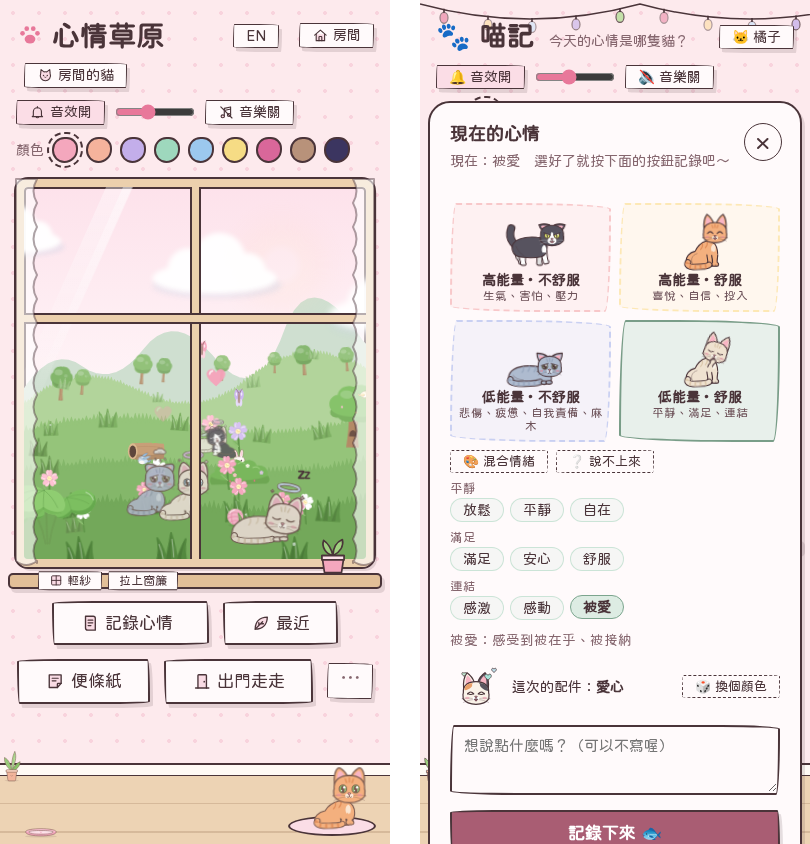
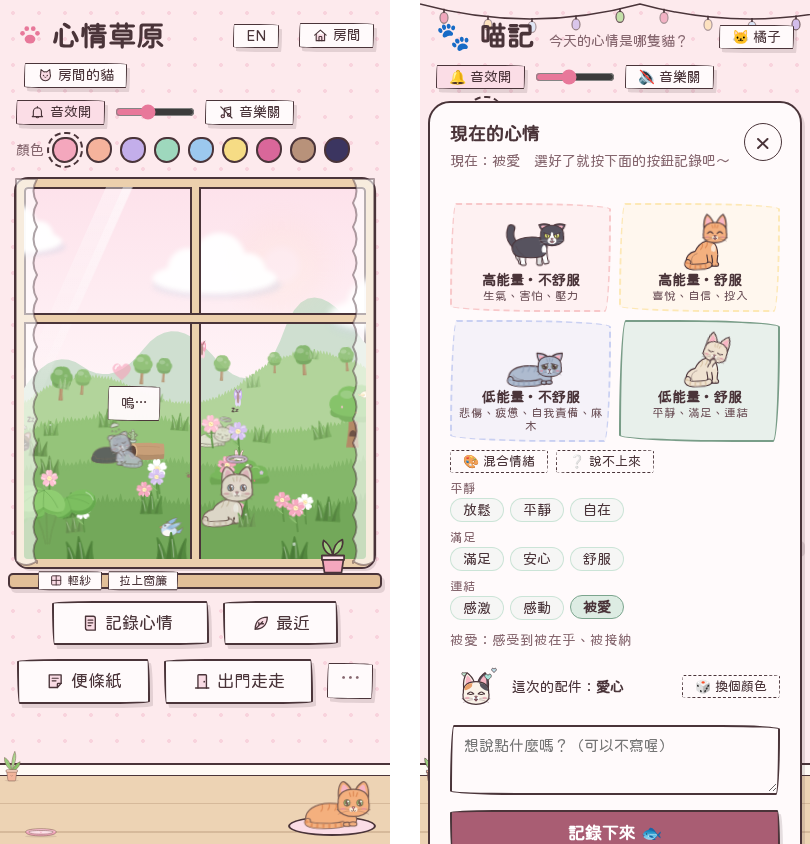
style: smaller eyes and plain accessories

Changed region(s): [[0.0926, 0.4313, 0.4012, 0.6469], [0.3704, 0.8934, 0.463, 0.9858], [0.2469, 0.4313, 0.2778, 0.4621]]

diff --git a/index.html b/index.html
@@ -1944,6 +1944,7 @@ const HEAD_POSE = {
 // 耳朵：難過會垂下、生氣會壓平（飛機耳）
 const EARS = { happy: [0, 0], calm: [0, 0], tired: [12, 1], sad: [36, 5], angry: [52, 7], anxious: [16, 1] };
 
+const EYE_K = .84;   // 眼睛的大小（表情小一點，比較柔和）
 function eye(cx, cy, mood, side, coat = mood) {
   const m = coatOf(coat);
   const iris = (pw, ph = 4.4) => `<ellipse cx="${cx}" cy="${cy}" rx="4.6" ry="5" fill="${m.eye}" stroke-width="1.4"/>
@@ -2003,8 +2004,10 @@ function headArt(mood, coat = mood, acc = null) {
     <path d="M95 29.5 L96.5 34 M100 28 L100 33.5 M105 29.5 L103.5 34" stroke="${m.stripe}" stroke-width="1.8" fill="none"/>
     ${m.muzzle ? `<path d="M100 36 C95 42 92 48 93 53 C96 57.5 104 57.5 107 53 C108 48 105 42 100 36Z" fill="#fff" stroke="none"/>` : ""}
     ${mood !== "angry" ? `<ellipse cx="87" cy="49.5" rx="3.3" ry="1.8" fill="#FF9DB5" opacity=".55" stroke="none"/><ellipse cx="113" cy="49.5" rx="3.3" ry="1.8" fill="#FF9DB5" opacity=".55" stroke="none"/>` : ""}
-    <g class="eyes">${eye(92, 42, mood, -1, coat)}${eye(108, 42, mood, 1, coat)}</g>
-    <g class="closed"><path d="M87.5 42.5 Q92 45.8 96.5 42.5 M103.5 42.5 Q108 45.8 112.5 42.5" fill="none" stroke="${m.eyeLine || INK}" stroke-width="1.6"/></g>
+    <g class="eyes">${[[92, -1], [108, 1]].map(([x, side]) => `<g transform="translate(${x} 42) scale(${EYE_K}) translate(${-x} -42)">${eye(x, 42, mood, side, coat)}</g>`).join("")}</g>
+    <g class="closed"><path d="M88.2 42.4 Q92 45.2 95.8 42.4 M104.2 42.4 Q108 45.2 111.8 42.4" fill="none" stroke="${m.eyeLine || INK}" stroke-width="1.6"/></g>
+    ${mood === "sad" ? `<path d="M90.4 47.4 Q88.8 50.4 90.4 51.8 Q92 50.4 90.4 47.4Z" fill="#8EC1EE" stroke="none"/>` : ""}
+    ${mood === "anxious" ? `<path d="M120 30 Q122.6 34 120 35.8 Q117.4 34 120 30Z" fill="#8EC1EE" stroke-width=".8"/>` : ""}
     <circle cx="97.6" cy="50.4" r="2.9" fill="${m.chest}" stroke="none"/><circle cx="102.4" cy="50.4" r="2.9" fill="${m.chest}" stroke="none"/>
     <path d="M98.1 47.1 Q100 46.4 101.9 47.1 Q101.1 49.3 100 49.7 Q98.9 49.3 98.1 47.1Z" fill="#F29BAE" stroke-width="1"/>
     <path d="M100 49.7 L100 51.3" stroke-width="1"/>
@@ -2124,25 +2127,7 @@ const sparkle = (x, y, s, fill) => `<path d="M${x} ${y - 4 * s} Q${x + .8 * s} $
 const label = (x, y, t, size, fill) => `<text x="${x}" y="${y}" font-size="${size}" text-anchor="middle" font-weight="bold" fill="${fill}" stroke="#4a3439" stroke-width=".6" paint-order="stroke" font-family="Huninn, sans-serif">${t}</text>`;
 const cloudPath = (x, y, s) => `M${x - 8 * s} ${y + 3 * s} Q${x - 11 * s} ${y + 3 * s} ${x - 10 * s} ${y} Q${x - 10 * s} ${y - 4 * s} ${x - 5 * s} ${y - 3.4 * s} Q${x - 3 * s} ${y - 7 * s} ${x + 1 * s} ${y - 5.6 * s} Q${x + 5 * s} ${y - 7 * s} ${x + 6.4 * s} ${y - 3 * s} Q${x + 11 * s} ${y - 3 * s} ${x + 10 * s} ${y + 1 * s} Q${x + 10 * s} ${y + 3 * s} ${x + 7 * s} ${y + 3 * s}Z`;
 
-// 小臉：配件上的表情（smile 笑、sad 難過、angry 生氣、sleep 睡著、o 驚訝、flat 沒表情）
-const miniFace = (x, y, s = 1, k = "smile", blush = true) => {
-  const f = n => +n.toFixed(2);
-  let eyes;
-  if (k === "angry") eyes = `<path d="M${f(x - 3 * s)} ${f(y - 1.2 * s)} L${f(x - 1.4 * s)} ${f(y - .2 * s)} L${f(x - 3 * s)} ${f(y + .8 * s)} M${f(x + 3 * s)} ${f(y - 1.2 * s)} L${f(x + 1.4 * s)} ${f(y - .2 * s)} L${f(x + 3 * s)} ${f(y + .8 * s)}" fill="none" stroke-width="${f(.9 * s)}"/>`;
-  else if (k === "sleep") eyes = `<path d="M${f(x - 3.2 * s)} ${f(y - .4 * s)} Q${f(x - 2.2 * s)} ${f(y + .8 * s)} ${f(x - 1.2 * s)} ${f(y - .4 * s)} M${f(x + 1.2 * s)} ${f(y - .4 * s)} Q${f(x + 2.2 * s)} ${f(y + .8 * s)} ${f(x + 3.2 * s)} ${f(y - .4 * s)}" fill="none" stroke-width="${f(.8 * s)}"/>`;
-  else eyes = `<circle cx="${f(x - 2.2 * s)}" cy="${f(y)}" r="${f(.75 * s)}" fill="#4a3439" stroke="none"/><circle cx="${f(x + 2.2 * s)}" cy="${f(y)}" r="${f(.75 * s)}" fill="#4a3439" stroke="none"/>`;
-  const m = {
-    smile: `M${f(x - 1 * s)} ${f(y + 1.3 * s)} Q${f(x)} ${f(y + 2.3 * s)} ${f(x + 1 * s)} ${f(y + 1.3 * s)}`,
-    sleep: `M${f(x - .8 * s)} ${f(y + 1.6 * s)} Q${f(x)} ${f(y + 2.2 * s)} ${f(x + .8 * s)} ${f(y + 1.6 * s)}`,
-    sad: `M${f(x - 1 * s)} ${f(y + 2.1 * s)} Q${f(x)} ${f(y + 1.2 * s)} ${f(x + 1 * s)} ${f(y + 2.1 * s)}`,
-    angry: `M${f(x - 1 * s)} ${f(y + 2 * s)} Q${f(x)} ${f(y + 1.2 * s)} ${f(x + 1 * s)} ${f(y + 2 * s)}`,
-    flat: `M${f(x - .9 * s)} ${f(y + 1.6 * s)} H${f(x + .9 * s)}`,
-  }[k];
-  const mouth = k === "o" ? `<ellipse cx="${f(x)}" cy="${f(y + 1.8 * s)}" rx="${f(.6 * s)}" ry="${f(.8 * s)}" fill="#4a3439" stroke="none"/>`
-    : `<path d="${m}" fill="none" stroke-width="${f(.75 * s)}"/>`;
-  const b = blush ? `<ellipse cx="${f(x - 3.6 * s)}" cy="${f(y + 1.2 * s)}" rx="${f(1.1 * s)}" ry="${f(.7 * s)}" fill="#ff9db5" opacity=".75" stroke="none"/><ellipse cx="${f(x + 3.6 * s)}" cy="${f(y + 1.2 * s)}" rx="${f(1.1 * s)}" ry="${f(.7 * s)}" fill="#ff9db5" opacity=".75" stroke="none"/>` : "";
-  return `<g stroke="#4a3439" stroke-linecap="round">${eyes}${mouth}${b}</g>`;
-};
+// 配件只是單純的配件，上面不畫表情（表情只在貓的臉上）
 // 白色反光
 const shine = (d, w = 1.2) => `<path d="${d}" fill="none" stroke="#fff" stroke-width="${w}" stroke-linecap="round" opacity=".9"/>`;
 // 胖胖的符號（? ! ♪），外框粗一點
@@ -2154,7 +2139,7 @@ const ACC = {
   // 生氣
   // 煩躁：耳朵旁冒出一朵氣噗噗的小煙
   irritated: h => `<g ${AK()}><path d="${cloudPath(128.6, 1.6, .38)}" fill="${hsl(h, 60, 92)}"/><path d="${cloudPath(120, 14, .9)}" fill="${hsl(h, 60, 92)}"/></g>
-    ${miniFace(120.6, 12.4, 1, "angry")}${shine("M112.4 11.6 Q113.4 9.2 116 8.8")}`,
+    ${shine("M112.4 11.6 Q113.4 9.2 116 8.8")}`,
   // 挫折：打結的毛線球
   frustrated: h => `<g ${AK()}><path d="M106 20 Q115 19 113 26 Q111 31 117 32 Q122 33 121 28 Q120 24 116 26" fill="none" stroke="${hsl(h, 55, 52)}" stroke-width="1.5"/>
     <circle cx="100" cy="17" r="7.4" fill="${hsl(h, 70, 74)}"/>
@@ -2165,7 +2150,7 @@ const ACC = {
     <path d="M118 28 V15 Q118 9.6 122 9.6 Q126 9.6 126 15 V28Z" fill="#9dd47f"/>
     <path d="M118 19 Q114 19 114 15 Q114 12.4 116 12.4 Q117.6 12.4 118 15 M126 22 Q130 22 130 18 Q130 15.4 128 15.4 Q126.4 15.4 126 18" fill="#9dd47f"/></g>
     <path d="M120 14 l-1.4 -1 M124 17 l1.4 -1 M120.6 22 l-1.4 1 M123.6 25 l1.4 1 M113.6 16 l-1.4 -.6 M130.4 19 l1.4 -.6" fill="none" stroke="#4a3439" stroke-width=".9" stroke-linecap="round"/>
-    <circle cx="122" cy="8.6" r="2" fill="${hsl(h, 80, 80)}" ${AK(.8)}/>${miniFace(122, 20.6, .5, "angry", false)}`,
+    <circle cx="122" cy="8.6" r="2" fill="${hsl(h, 80, 80)}" ${AK(.8)}/>`,
   // 嫉妒：想要的小魚乾
   jealous: h => `<g ${AK()}><circle cx="112.6" cy="23" r="1.4" fill="#fff"/><circle cx="116.6" cy="17" r="2.2" fill="#fff"/>
     <ellipse cx="126" cy="7.4" rx="10" ry="7.6" fill="#fff"/>
@@ -2174,7 +2159,7 @@ const ACC = {
   // 憤怒：生氣的小火焰
   furious: h => `<g ${AK()}><path d="M100 1 C104 8 109 9 108 15 C111 13 112 10 112 9 C117 15 113 25 106 25 H94 C87 25 83 15 88 9 C88 10 89 13 92 15 C91 9 96 8 100 1Z" fill="${hsl(h, 85, 66)}"/>
     <path d="M100 11 C104 14 107 17 105.4 21.6 C104 24 96 24 94.6 21.6 C93 17 96 14 100 11Z" fill="${hsl(h + 30, 95, 86)}" stroke="none"/></g>
-    ${miniFace(100, 18.6, .8, "angry", false)}${shine("M90 13 Q90 10.6 91.6 9.6")}`,
+    ${shine("M90 13 Q90 10.6 91.6 9.6")}`,
   // 害怕
   // 緊張：繃緊的彈簧
   nervous: h => { const d = "M121 30 C114 29 114 26 121 25 C128 24 128 21 121 20 C114 19 114 16 121 15 C128 14 128 11 121 10";
@@ -2182,10 +2167,9 @@ const ACC = {
     <circle cx="121" cy="8" r="2.8" fill="${hsl(h + 40, 75, 80)}" ${AK(1.1)}/>${shine("M119.8 7 Q120.4 6 121.4 6", .8)}`; },
   // 擔心：胖胖的問號
   worried: h => `${puffy(119, 21, "?", 15, hsl(h, 75, 74))}${puffy(128.6, 11, "?", 10, hsl(h + 40, 75, 82))}`,
-  // 焦慮：轉圈圈眼睛的小雲
+  // 焦慮：一朵亂亂的小雲
   anxious: h => `<g ${AK()}><path d="${cloudPath(100, 9, .82)}" fill="${hsl(h, 45, 90)}"/>
-    <path d="M96.6 7.6 m-1.6 0 a1.6 1.6 0 1 1 1.6 1.6 a.8 .8 0 0 1 -.8 -.8 M104.6 7.6 m-1.6 0 a1.6 1.6 0 1 1 1.6 1.6 a.8 .8 0 0 1 -.8 -.8" fill="none" stroke-width=".9"/>
-    <path d="M97.6 11.8 q1.2 -1 2.4 0 t2.4 0" fill="none" stroke-width=".9"/></g>${shine("M92.4 6.4 Q93.2 4.4 95.4 4.2")}`,
+    <path d="M93 8 q3 -3 6 0 t6 0 M95 11 q2.6 -2.4 5.2 0 t5.2 0" fill="none" stroke-width=".9"/></g>${shine("M92.4 6.4 Q93.2 4.4 95.4 4.2")}`,
   // 害怕：驚嘆號
   scared: h => `${puffy(119, 21, "!", 17, hsl(h, 85, 72))}`,
   // 恐慌：好幾個驚嘆號
@@ -2196,7 +2180,7 @@ const ACC = {
     <circle cx="93.6" cy="10.4" r="3.2" fill="${hsl(h, 60, 62)}"/><circle cx="106.4" cy="10.4" r="3.2" fill="${hsl(h, 60, 62)}"/>
     <circle cx="100" cy="17" r="8" fill="${hsl(h, 70, 76)}"/><circle cx="100" cy="17.4" r="5.8" fill="#fffaf5" stroke-width="1"/>
     <path d="M89 12 L87 10.6 M111 12 L113 10.6" fill="none" stroke-width="1"/></g>
-    ${miniFace(100, 17, .78, "o")}`,
+    `,
   // 坐立不安：小閃電
   restless: h => `<g ${AK()}><path d="M121 6.6 L115.6 16.4 H120.4 L116.6 27 L126.6 13.6 H121.6 L125.6 6.6Z" fill="${hsl(h, 90, 76)}"/>
     <path d="M79 25 q-3 2 0 4 q3 2 0 4 M75 27 q-3 2 0 4 q3 2 0 4" fill="none" stroke-width="1.1"/></g>${shine("M121.6 8.4 L119.4 12.6", 1)}`,
@@ -2204,12 +2188,12 @@ const ACC = {
   overwhelmed: h => `<g ${AK()}><rect x="88" y="17" width="24" height="5.4" rx="2" fill="${hsl(h, 60, 82)}" transform="rotate(-6 100 19)"/>
     <rect x="89" y="11.6" width="22" height="5.4" rx="2" fill="${hsl(h + 40, 60, 84)}" transform="rotate(5 100 14)"/>
     <rect x="90" y="5" width="20" height="7" rx="2" fill="#fffaf5" transform="rotate(-4 100 8.4)"/></g>
-    ${miniFace(100, 8, .6, "o", false)}`,
+    `,
   // 喜悅
   // 開心：耳朵邊一朵笑咪咪的小花
   happy: h => `<g ${AK()}><path d="M91 30 Q94 34 97.6 32 Q94.6 28.4 91 30Z" fill="#9fd07f"/>
     ${[0, 72, 144, 216, 288].map(a => `<circle cx="${(87 + 4.4 * Math.cos((a - 90) * Math.PI / 180)).toFixed(1)}" cy="${(23 + 4.4 * Math.sin((a - 90) * Math.PI / 180)).toFixed(1)}" r="3.6" fill="${hsl(h, 80, 80)}"/>`).join("")}
-    <circle cx="87" cy="23" r="3" fill="#ffe08a"/></g>${miniFace(87, 22.6, .5, "smile", false)}`,
+    <circle cx="87" cy="23" r="3" fill="#ffe08a"/></g>`,
   // 好笑：胖胖的音符
   amused: h => `<g ${AK()}><path d="M117 22 V10 L124 8 V19" fill="none" stroke-width="1.4"/>
     <ellipse cx="115.4" cy="22" rx="2.6" ry="2" fill="${hsl(h, 75, 74)}" transform="rotate(-20 115.4 22)"/><ellipse cx="122.4" cy="19.4" rx="2.6" ry="2" fill="${hsl(h, 75, 74)}" transform="rotate(-20 122.4 19.4)"/>
@@ -2248,11 +2232,11 @@ const ACC = {
   // 悲傷
   // 難過：一朵哭哭的小雨雲
   sad: h => `<g ${AK()}><path d="${cloudPath(100, 6, .8)}" fill="${hsl(h, 25, 86)}"/>${drop(94, 16.4, .85, hsl(h, 75, 78))}${drop(100.6, 18.4, .85, hsl(h, 75, 78))}${drop(107, 16, .85, hsl(h, 75, 78))}</g>
-    ${miniFace(100, 5.4, .72, "sad")}`,
+    `,
   // 失望：垂頭喪氣的小花
   disappointed: h => `<g ${AK()}><path d="M100 25 Q101 14 108 13 Q113.6 13 113.4 18" fill="none" stroke="#6fa655" stroke-width="1.6"/>
     <path d="M103.4 15.8 Q99 13 98 17 Q101 18.6 103.4 15.8Z" fill="#b6c99a"/>
-    <circle cx="113.4" cy="22" r="4.6" fill="${hsl(h, 50, 78)}"/></g>${miniFace(113.4, 22, .62, "sad", false)}`,
+    <circle cx="113.4" cy="22" r="4.6" fill="${hsl(h, 50, 78)}"/></g>`,
   // 委屈：貼著愛心的 OK 繃
   wronged: h => `<g ${AK()}><g transform="rotate(-30 113 48)"><rect x="104.6" y="45" width="17" height="6.2" rx="3.1" fill="${hsl(h, 60, 87)}"/><rect x="110.4" y="45" width="5.4" height="6.2" rx="1" fill="${hsl(h, 55, 78)}" stroke-width="1"/>
     <circle cx="107.4" cy="47" r=".5" fill="${hsl(h, 50, 68)}" stroke="none"/><circle cx="107.4" cy="49.2" r=".5" fill="${hsl(h, 50, 68)}" stroke="none"/><circle cx="118.8" cy="47" r=".5" fill="${hsl(h, 50, 68)}" stroke="none"/><circle cx="118.8" cy="49.2" r=".5" fill="${hsl(h, 50, 68)}" stroke="none"/></g>
@@ -2260,7 +2244,7 @@ const ACC = {
   // 孤單：一顆小氣球
   lonely: h => `<g ${AK()}><path d="M117 52 Q124 40 122.6 27" fill="none" stroke-width="1"/>
     <ellipse cx="124" cy="17" rx="7" ry="8.4" fill="${hsl(h, 75, 78)}"/><path d="M122.4 25.2 L125.6 25.2 L124 27.4Z" fill="${hsl(h, 75, 78)}" stroke-width="1"/></g>
-    ${shine("M119.8 13.4 Q120.8 10.4 123.4 10")}${miniFace(124, 18, .6, "flat")}`,
+    ${shine("M119.8 13.4 Q120.8 10.4 123.4 10")}`,
   // 失落：飄走的落葉
   lost: h => `<g ${AK()}><path d="M115 5 C121 1.4 128 5.4 126 13 C119.6 15.2 113.4 11 115 5Z" fill="${hsl(h, 70, 72)}"/>
     <path d="M116.4 6 L124.6 12.2 M119 8 L120.4 5.4 M121.4 9.8 L123.6 7.8" fill="none" stroke-width="1"/>
@@ -2273,16 +2257,16 @@ const ACC = {
     <circle cx="128.6" cy="31" r="3.4" fill="#fffaf5"/></g>${shine("M88 20 Q90 14 95 11.4")}`,
   // 提不起勁：快沒電的電池
   unmotivated: h => `<g ${AK()}><rect x="90" y="5" width="20" height="12" rx="3" fill="#fffaf5"/><rect x="110" y="8.6" width="2.6" height="4.8" rx="1" fill="#4a3439"/>
-    <rect x="92.2" y="7.2" width="3.6" height="7.6" rx="1" fill="${hsl(h, 80, 66)}" stroke="none"/></g>${miniFace(102.6, 10.6, .62, "sleep", false)}`,
+    <rect x="92.2" y="7.2" width="3.6" height="7.6" rx="1" fill="${hsl(h, 80, 66)}" stroke="none"/></g>`,
   // 無力：小白旗
   helpless: h => `<g ${AK()}><path d="M120 50 L122 14" fill="none" stroke="#4a3439" stroke-width="3.6"/><path d="M120 50 L122 14" fill="none" stroke="#e7b98d" stroke-width="1.8"/>
     <circle cx="122" cy="13" r="1.8" fill="${hsl(h, 70, 80)}"/>
-    <path d="M122.4 16 Q128 13.6 132 16.4 Q129 20.4 134 24.4 Q128 22.4 121.8 25.6Z" fill="#fffaf5"/></g>${miniFace(127.4, 19.6, .5, "sleep", false)}`,
+    <path d="M122.4 16 Q128 13.6 132 16.4 Q129 20.4 134 24.4 Q128 22.4 121.8 25.6Z" fill="#fffaf5"/></g>`,
   // 倦怠：燒完的小蠟燭
   burned_out: h => `<g ${AK()}><path d="M95.6 24 V15.6 Q95.6 13.6 97.6 13.6 H102.4 Q104.4 13.6 104.4 15.6 V24Z" fill="${hsl(h, 60, 88)}"/>
     <path d="M95.6 16 Q97 19.4 98.4 16 M101.6 16 Q103 18.6 104.4 16" fill="${hsl(h, 60, 88)}" stroke-width="1"/>
     <path d="M100 13.6 V11" fill="none" stroke-width="1.2"/><path d="M100 9 Q97 6 100 3 Q103 0 100 -3" fill="none" stroke="#b9b0b4" stroke-width="1.2"/></g>
-    ${miniFace(100, 19.6, .55, "sleep", false)}`,
+    `,
   // 自我責備
   // 尷尬：含羞草
   embarrassed: h => `<g ${AK()}><path d="M90 31 C88 24 85 18 81 13" fill="none" stroke="#6fa655" stroke-width="1.5"/>
@@ -2309,7 +2293,7 @@ const ACC = {
   empty: h => `<path ${AK(1.8, hsl(h, 60, 64))} d="${heartPath(100, 11, 2.1)}" fill="${hsl(h, 60, 96)}" fill-opacity=".6" stroke-dasharray="2 1.8"/>`,
   // 無感：發呆的冰塊
   numb: h => `<g ${AK()}><rect x="91" y="6" width="18" height="17" rx="4" fill="${hsl(h, 70, 92)}" fill-opacity=".95"/>
-    <path d="M93 9.6 Q93 8 95 8" fill="none" stroke="#fff" stroke-width="1.6"/></g>${miniFace(100, 14.4, .72, "flat")}`,
+    <path d="M93 9.6 Q93 8 95 8" fill="none" stroke="#fff" stroke-width="1.6"/></g>`,
   // 平靜
   // 放鬆：毛巾頭巾＋泡泡
   relaxed: h => `<g ${AK()}><path d="M80 30 Q78 14 100 10 Q122 14 120 30 Q100 22 80 30Z" fill="${hsl(h, 65, 88)}"/>
@@ -2327,7 +2311,7 @@ const ACC = {
   // 滿足：頭上飄著一顆微笑的小太陽，心裡暖暖的
   content: h => `<g ${AK(1.2)}><g stroke="${hsl(h, 80, 66)}" stroke-width="1.8">${[0, 45, 90, 135, 180, 225, 270, 315].map(a => { const r = a * Math.PI / 180;
       return `<path d="M${(100 + 9 * Math.cos(r)).toFixed(1)} ${(10 + 9 * Math.sin(r)).toFixed(1)} L${(100 + 12.4 * Math.cos(r)).toFixed(1)} ${(10 + 12.4 * Math.sin(r)).toFixed(1)}"/>`; }).join("")}</g>
-    <circle cx="100" cy="10" r="6.8" fill="${hsl(h, 85, 80)}"/></g>${miniFace(100, 9.6, .7, "sleep")}`,
+    <circle cx="100" cy="10" r="6.8" fill="${hsl(h, 85, 80)}"/></g>`,
   // 安心：頭上一間冒著煙的小房子，有家的感覺
   secure: h => `<g ${AK(1.2)}><path d="M93 24 V15.4 H107 V24" fill="#fffaf0"/>
     <path d="M90.4 16.6 L100 7.4 L109.6 16.6Z" fill="${hsl(h, 65, 74)}"/>
@@ -2358,7 +2342,7 @@ const ACC = {
   dislike: h => `<g ${AK()}><path d="M122 10.6 Q122.4 6.6 126 5" fill="none" stroke="#4a3439" stroke-width="3.4"/><path d="M122 10.6 Q122.4 6.6 126 5" fill="none" stroke="#7fae5f" stroke-width="1.6"/>
     <path d="M113.6 13 Q112.4 24.6 118.6 26 Q122 27.4 125.4 26 Q131.6 24.6 130.4 13 Q126.4 9.2 122 11.2 Q117.6 9.2 113.6 13Z" fill="#9dd47f"/>
     <path d="M118.6 13 Q117.6 20 119.4 25 M125.4 13 Q126.4 20 124.6 25" fill="none" stroke="#7fbf63" stroke-width="1"/></g>
-    ${miniFace(122, 18.6, .62, "angry", false)}${shine("M115.6 15 Q115.2 18 116 20.6", 1)}<path d="${heartPath(130, 7, .4)}" fill="${hsl(h, 80, 80)}" ${AK(.8)}/>`,
+    ${shine("M115.6 15 Q115.2 18 116 20.6", 1)}<path d="${heartPath(130, 7, .4)}" fill="${hsl(h, 80, 80)}" ${AK(.8)}/>`,
   // 噁心：飄過來的怪味道
   disgusted: h => { const d = "M114 32 q-2.4 -3 0 -6 t0 -6 M121 30 q-2.4 -3 0 -6 t0 -6 t0 -6 M128 32 q-2.4 -3 0 -6 t0 -6";
     return `<g fill="none" stroke-linecap="round"><path d="${d}" stroke="#4a3439" stroke-width="3.8"/><path d="${d}" stroke="${hsl(80 + h % 40, 55, 68)}" stroke-width="2"/></g>`; },
@@ -2367,24 +2351,24 @@ const ACC = {
   awe: h => `<g ${AK()}><path d="M110.4 16.4 A12 3.6 -18 0 1 133.6 9" fill="none" stroke="#4a3439" stroke-width="4"/><path d="M110.4 16.4 A12 3.6 -18 0 1 133.6 9" fill="none" stroke="${hsl(h + 50, 70, 82)}" stroke-width="2"/>
     <circle cx="122" cy="12.6" r="8" fill="${hsl(h, 60, 80)}"/>
     <path d="M110.4 16.4 A12 3.6 -18 0 0 133.6 9" fill="none" stroke="#4a3439" stroke-width="4"/><path d="M110.4 16.4 A12 3.6 -18 0 0 133.6 9" fill="none" stroke="${hsl(h + 50, 70, 82)}" stroke-width="2"/></g>
-    ${miniFace(121, 10.6, .55, "smile", false)}${shine("M116.4 9 Q117 6.6 119.4 5.8", 1)}${sparkle(107, 4, .6, "#ffd977").replace("<path", `<path ${AK(.8)}`)}${sparkle(136, 21, .5, "#fffaf5").replace("<path", `<path ${AK(.8)}`)}`,
+    ${shine("M116.4 9 Q117 6.6 119.4 5.8", 1)}${sparkle(107, 4, .6, "#ffd977").replace("<path", `<path ${AK(.8)}`)}${sparkle(136, 21, .5, "#fffaf5").replace("<path", `<path ${AK(.8)}`)}`,
   // 驚嘆：一顆流星
   amazed: h => { const st = (cx, cy, r) => [...Array(10)].map((_, i) => { const a = (i * 36 - 90) * Math.PI / 180, rr = i % 2 ? r * .5 : r; return `${i ? "L" : "M"}${(cx + rr * Math.cos(a)).toFixed(1)} ${(cy + rr * Math.sin(a)).toFixed(1)}`; }).join(" ") + "Z";
     return `<g fill="none" stroke-linecap="round"><path d="M96 20 Q104 14.6 112 11.6 M99 24.4 Q106 19 113 16" stroke="#4a3439" stroke-width="3.6"/><path d="M96 20 Q104 14.6 112 11.6 M99 24.4 Q106 19 113 16" stroke="${hsl(h + 40, 80, 82)}" stroke-width="1.8"/></g>
-    <path ${AK()} d="${st(120, 10, 8.4)}" fill="#ffd977"/>${miniFace(120, 10.6, .55, "smile", false)}${shine("M115.4 7 L117.4 5.4", 1)}`; },
+    <path ${AK()} d="${st(120, 10, 8.4)}" fill="#ffd977"/>${shine("M115.4 7 L117.4 5.4", 1)}`; },
   // 驚喜：拉炮
   pleasantly_surprised: h => `<g ${AK()}><path d="M115 34 L123 16 L132.6 25Z" fill="${hsl(h, 75, 76)}"/><path d="M118.2 27.4 L127.6 20.6 M120.8 31.4 L130 23.4" fill="none" stroke="${hsl(h + 180, 70, 86)}" stroke-width="1.8"/></g>
     <g ${AK(.8)}><rect x="112" y="7" width="4.6" height="2.4" rx="1" fill="${hsl(h + 60, 85, 70)}" transform="rotate(30 114.3 8.2)"/><rect x="129" y="2" width="4.6" height="2.4" rx="1" fill="${hsl(h + 140, 85, 70)}" transform="rotate(-25 131.3 3.2)"/>
     <circle cx="121" cy="5" r="1.7" fill="${hsl(h + 220, 85, 72)}"/><circle cx="136" cy="13" r="1.6" fill="${hsl(h + 300, 85, 72)}"/></g>
     ${sparkle(120, 12, .8, "#ffd977").replace("<path", `<path ${AK(.8)}`)}<path ${AK(.8)} d="${heartPath(134, 6.4, .7)}" fill="${hsl(h + 330, 85, 76)}"/>`,
   // 嚇一跳：跳起來的心
-  startled: h => `<path ${AK(1.2)} d="${heartPath(122, 14, 1.6)}" fill="${hsl(h, 80, 78)}"/>${miniFace(122, 12.6, .5, "o", false)}
+  startled: h => `<path ${AK(1.2)} d="${heartPath(122, 14, 1.6)}" fill="${hsl(h, 80, 78)}"/>
     <g ${AK(1.2)} fill="none"><path d="M112 9 L109 7 M112.4 15 H108.6 M132 9 L135 7 M131.6 15 H135.4 M118 25 L117 28 M126 25 L127 28"/></g>`,
   // 震驚：驚嘆號加問號
   shocked: h => `${puffy(114, 21, "!", 16, hsl(h, 85, 70))}${puffy(124.6, 19, "?", 14, hsl(h + 40, 80, 76))}`,
   // 喘不過氣：頭上壓著一顆大石頭
   suffocated: h => `<g ${AK()}><path d="M86 22 Q84 12 92 8.6 Q100 4 108 7.4 Q117 9 115.4 19 Q115 24 100 24.4 Q87 24.6 86 22Z" fill="${hsl(h, 12, 82)}"/>
-    <path d="M92 13 Q95 11 98 12.4 M105 16 Q108 15 110 17" fill="none" stroke-width="1"/></g>${miniFace(101, 17.6, .7, "o", false)}`,
+    <path d="M92 13 Q95 11 98 12.4 M105 16 Q108 15 110 17" fill="none" stroke-width="1"/></g>`,
   // 愉快：耳朵邊的四葉草
   cheerful: h => `<g ${AK()}><path d="M87 24 Q88 30 92.6 32" fill="none" stroke="#7fae5f" stroke-width="1.6"/>
     ${[0, 90, 180, 270].map(a => `<path d="${heartPath(0, 0, .95)}" transform="translate(87 22) rotate(${a + 45}) translate(0 -3.6)" fill="${a ? "#a8d88e" : hsl(h, 75, 82)}"/>`).join("")}
@@ -2394,14 +2378,14 @@ const ACC = {
     <path d="M117 5 V9 M127 5 V9" fill="none" stroke-width="1.6"/></g>
     <path ${AK(.9)} d="${heartPath(122, 17.6, .8)}" fill="${hsl(h + 330, 80, 78)}"/>${sparkle(134.4, 4.6, .5, "#ffd977").replace("<path", `<path ${AK(.8)}`)}`,
   // 有點低落：一朵小烏雲（還沒下雨）
-  down: h => `<g ${AK()}><path d="${cloudPath(122, 12, .9)}" fill="${hsl(h, 12, 86)}"/></g>${miniFace(122, 11.4, .7, "flat", false)}`,
+  down: h => `<g ${AK()}><path d="${cloudPath(122, 12, .9)}" fill="${hsl(h, 12, 86)}"/></g>`,
   // 心碎：裂成兩半的心
   heartbroken: h => `<g ${AK()} fill="${hsl(335 + h % 40, 75, 78)}"><path d="M120 12 C118 6.4 109 6.4 109.4 13.4 C109.8 19 115 22 119.6 26.4 L118.2 21.4 L121 17.4 L118.6 14.4Z" transform="rotate(-8 115 18)"/>
     <path d="M122.6 12 C124.6 6.4 133.6 6.4 133.2 13.4 C132.8 19 127.6 22 123 26.4 L121.6 21.4 L124.4 17.4 L122 14.4Z" transform="rotate(8 128 18)"/></g>
     ${shine("M112 11 Q112.6 9.4 114.4 9.4", 1)}<g ${AK(.9)}>${drop(107, 30, .8, "#cfe8ff")}</g>`,
   // 鬆一口氣：放下來的石頭
   relieved: h => `<g ${AK()}><path d="M117 31 C116 25 120 21.6 125 21.6 C130 21.6 133.4 25 133 30 C132.6 33 129 34 125 34 C120.6 34 117.4 33.4 117 31Z" fill="${hsl(h, 14, 84)}"/></g>
-    ${miniFace(125, 28.4, .6, "sleep", false)}<path d="M114 34.6 H136" fill="none" stroke="#4a3439" stroke-width="1" stroke-linecap="round" opacity=".5"/>
+    <path d="M114 34.6 H136" fill="none" stroke="#4a3439" stroke-width="1" stroke-linecap="round" opacity=".5"/>
     <path d="M125 17 V12 M122 15 L125 12 L128 15" fill="none" ${AK(1.1)}/>${sparkle(134, 15, .5, "#fffaf5").replace("<path", `<path ${AK(.8)}`)}`,
   // 喜歡：頭上彈來彈去的愛心天線
   fond: h => `<g ${AK()}><path d="M100 21 q-3.4 -2.6 0 -5 q3.4 -2.4 0 -5 q-3 -2 .6 -4.2" fill="none" stroke-width="1.4"/>
@@ -2414,7 +2398,7 @@ const ACC = {
     <path d="M109 22 Q104.6 25 106.4 29" fill="none" stroke="#4a3439" stroke-width="1" stroke-dasharray="1.6 2.4" stroke-linecap="round"/>`,
   // 還好：一杯溫開水
   okay: h => `<g ${AK()}><path d="M115 13 H129 L127.4 25.4 Q127 27 125.4 27 H118.6 Q117 27 116.6 25.4Z" fill="${hsl(h, 45, 90)}"/>
-    <path d="M129 15.6 Q133.4 15.6 132.6 19.4 Q132 22 128.2 21.6" fill="none" stroke-width="1.2"/></g>${miniFace(122, 20, .55, "flat", false)}
+    <path d="M129 15.6 Q133.4 15.6 132.6 19.4 Q132 22 128.2 21.6" fill="none" stroke-width="1.2"/></g>
     <path d="M119 10.4 q-1 -2 0 -3.4 q1 -1.6 0 -3 M124.6 10.4 q-1 -2 0 -3.4 q1 -1.6 0 -3" fill="none" stroke="#bdb5b8" stroke-width=".9" stroke-linecap="round"/>`,
   // 新增的淡的詞、在乎
   // 不爽：揉皺的紙團
@@ -2444,7 +2428,7 @@ const ACC = {
     <path d="M118 10 C117 7 119 5 121 5 M116 12 C117 9 120 8.6 122 10" fill="none" stroke="#6fa655" stroke-width="1.8"/></g>${shine("M125 16 Q127 19 126.6 22", 1)}`,
   // 還不錯：小星星貼紙
   alright: h => { const st = [...Array(10)].map((_, i) => { const a = (i * 36 - 90) * Math.PI / 180, r = i % 2 ? 3.8 : 8; return `${i ? "L" : "M"}${(122 + r * Math.cos(a)).toFixed(1)} ${(14 + r * Math.sin(a)).toFixed(1)}`; }).join(" ") + "Z";
-    return `<g ${AK()}><circle cx="122" cy="14.6" r="10" fill="#fffaf5"/><path d="${st}" fill="${hsl(h, 80, 80)}"/></g>${miniFace(122, 14.6, .45, "smile", false)}`; },
+    return `<g ${AK()}><circle cx="122" cy="14.6" r="10" fill="#fffaf5"/><path d="${st}" fill="${hsl(h, 80, 80)}"/></g>`; },
   // 幸福：一道小彩虹
   happiness: h => `<g fill="none" stroke-linecap="round">
     <path d="M108 22 A14 14 0 0 1 136 22" stroke="#4a3439" stroke-width="10.4"/>
@@ -2453,7 +2437,7 @@ const ACC = {
     <g ${AK()}><path d="${cloudPath(108, 23, .42)}" fill="#fff"/><path d="${cloudPath(136, 23, .42)}" fill="#fff"/></g>`,
   // 歸屬感：剛好拼上的拼圖
   belonging: h => `<g ${AK()}><path d="M112 8 H120 C120 5 124 5 124 8 H130 V14 C127 14 127 18 130 18 V24 H112Z" fill="${hsl(h, 65, 80)}"/>
-    <path d="M124 8 C124 11 120 11 120 8" fill="none" stroke-width="1"/></g>${miniFace(119, 17, .55, "smile", false)}`,
+    <path d="M124 8 C124 11 120 11 120 8" fill="none" stroke-width="1"/></g>`,
   // 關心：小澆水壺
   caring: h => `<g ${AK()}><path d="M112 14 H126 L125 26 H113Z" fill="${hsl(h, 60, 80)}"/><path d="M126 17 L133 11 L134.6 12.6 L127 21" fill="${hsl(h, 60, 80)}"/>
     <path d="M114 14 C114 8 124 8 124 14" fill="none" stroke-width="1.6"/></g>

diff --git a/sw.js b/sw.js
@@ -1,6 +1,6 @@
 // 心情草原的 service worker：讓網頁可以安裝成 app、沒有網路時也打得開
 // 改了網頁或圖示之後，把版本號加一，使用者下次打開就會換成新版
-const CACHE = "mood-meadow-v32";
+const CACHE = "mood-meadow-v33";
 const CORE = ["./", "index.html", "manifest.webmanifest", "icons/icon-192.png", "icons/icon-512.png",
   "icons/icon-maskable-512.png", "icons/apple-touch-icon.png", "icons/favicon-32.png"];
 
